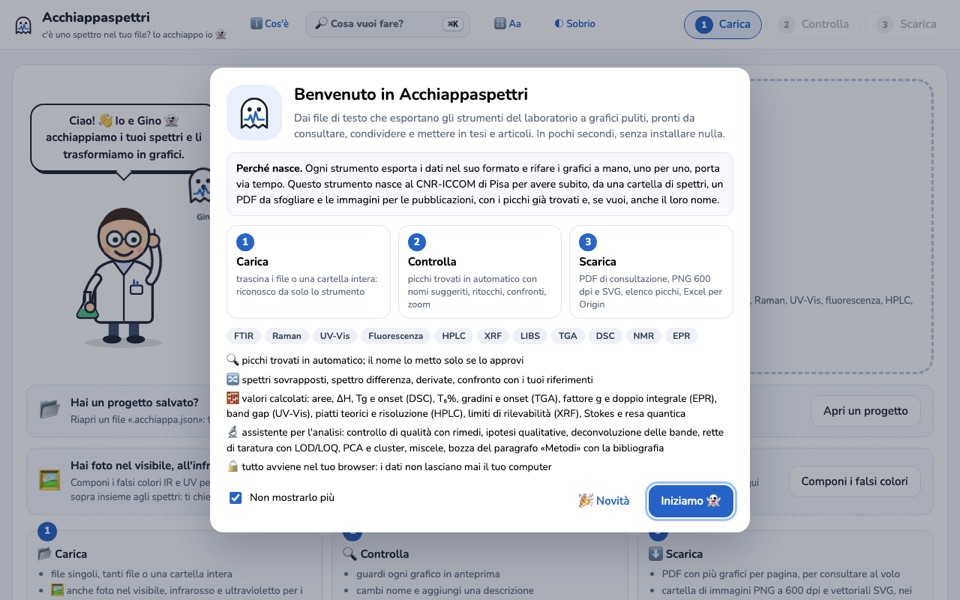
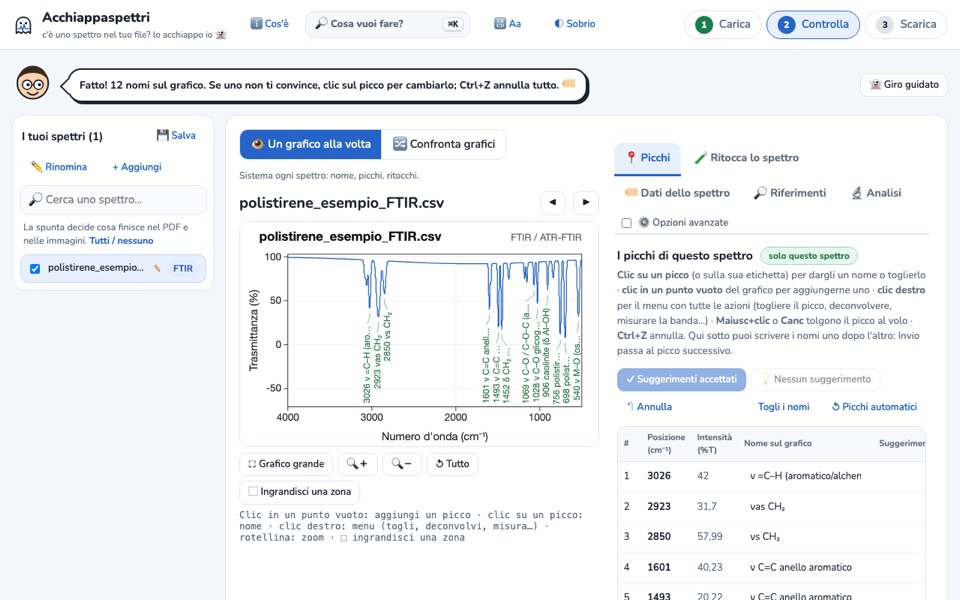
Copertina di Algae, screenshot dei tool in uso, hero mobile più chiaro
- nuovo progetto: copertina di Algae (3ª ed., CRC Press), con crediti dei disegni
- screenshot reali: Acchiappaspettri con spettro FTIR di esempio, ICP Tool con
  tabella standard, Work Time Tracker con giornata in corso
- su mobile il ritratto scende dopo i bottoni: primo schermo = chi sono e cosa faccio

diff --git a/index.html b/index.html
@@ -20,7 +20,7 @@
 <link rel="preconnect" href="https://fonts.googleapis.com">
 <link rel="preconnect" href="https://fonts.gstatic.com" crossorigin>
 <link href="https://fonts.googleapis.com/css2?family=Bricolage+Grotesque:opsz,wght@12..96,400;12..96,600;12..96,700;12..96,800&family=Instrument+Serif:ital@0;1&family=JetBrains+Mono:wght@500;600&display=swap" rel="stylesheet">
-<link rel="stylesheet" href="styles.css?v=6">
+<link rel="stylesheet" href="styles.css?v=7">
 <script type="application/ld+json">
 {"@context":"https://schema.org","@type":"Person","name":"Lorenzo Birindelli","url":"https://lorebiri.github.io/","image":"https://lorebiri.github.io/lorenzo.jpg","jobTitle":"Collaboratore Tecnico Enti di Ricerca (CTER)","description":"CTER at CNR-ICCOM, Pisa: lab and technical support, instrumentation, data, scientific graphics and digital tools.","worksFor":{"@type":"ResearchOrganization","name":"CNR — Istituto di Chimica dei Composti OrganoMetallici (ICCOM)","address":{"@type":"PostalAddress","addressLocality":"Pisa","addressCountry":"IT"},"parentOrganization":{"@type":"GovernmentOrganization","name":"Consiglio Nazionale delle Ricerche (CNR)"}},"alumniOf":{"@type":"EducationalOrganization","name":"ITIS \"Leonardo da Vinci\", Pisa"},"knowsLanguage":["it","en"],"identifier":{"@type":"PropertyValue","propertyID":"ORCID","value":"0009-0000-2529-6256"},"sameAs":["https://orcid.org/0009-0000-2529-6256","https://scholar.google.com/citations?user=1BWAMFEAAAAJ","https://github.com/lorebiri"]}
 </script>
@@ -213,6 +213,7 @@
           <div class="tags">
             <span class="tag" data-it>figure per pubblicazioni</span><span class="tag" data-en>figures for publications</span>
             <span class="tag" data-it>illustrazione scientifica</span><span class="tag" data-en>scientific illustration</span>
+            <span class="tag" data-it>copertine di libri</span><span class="tag" data-en>book covers</span>
             <span class="tag" data-it>locandine &amp; grafica eventi</span><span class="tag" data-en>posters &amp; event graphics</span>
             <span class="tag">videomaking</span>
             <span class="tag">Final Cut Pro</span>
@@ -417,7 +418,7 @@
             <dt><span data-it>problema</span><span data-en>problem</span></dt>
             <dd><span data-it>Con l'orario CNR da 7h 12m e le pause di mezzo, sapere a che ora si esce è sempre un conto a mente.</span><span data-en>With the 7h 12m CNR workday and breaks in between, working out when you can leave is always mental maths.</span></dd>
             <dt><span data-it>cosa fa</span><span data-en>what it does</span></dt>
-            <dd><span data-it>Inserisci l'ingresso e le pause: calcola la fine della giornata e l'ora del buono pasto, con countdown, percentuale completata e cosa succede se esci adesso.</span><span data-en>Enter your start time and breaks: it works out when the day ends and when the meal voucher kicks in, with countdowns, progress and what happens if you leave now.</span></dd>
+            <dd><span data-it>Inserisci l'ingresso e le pause: calcola la fine della giornata e l'ora del buono pasto (aggiungendo da solo la mezz'ora di pausa pranzo se manca), con countdown, percentuale completata e cosa succede se esci adesso.</span><span data-en>Enter your start time and breaks: it works out when the day ends and when the meal voucher kicks in (adding the 30-minute lunch break itself if it's missing), with countdowns, progress and what happens if you leave now.</span></dd>
             <dt><span data-it>risultato</span><span data-en>result</span></dt>
             <dd><span data-it>Zero scienza, massima utilità quotidiana.</span><span data-en>Zero science, maximum everyday usefulness.</span></dd>
             <dt><span data-it>il mio ruolo</span><span data-en>my part</span></dt>
@@ -433,8 +434,39 @@
         </div>
       </article>
 
+      <!-- Copertina Algae -->
+      <article class="work slim rv" data-cat="graphics">
+        <div class="art book">
+          <a href="https://www.routledge.com/Algae-Anatomy-Biochemistry-and-Biotechnology/Barsanti-Gualtieri/p/book/9781032035123" target="_blank" rel="noopener" tabindex="-1" aria-hidden="true">
+            <img src="img/algae-cover.jpg" alt="" width="350" height="500" loading="lazy">
+          </a>
+          <span class="stk"><span data-it>📚 copertina by me</span><span data-en>📚 cover by me</span></span>
+        </div>
+        <div class="wbody">
+          <p class="wcat"><b>Scientific Graphics</b><span>IBF · CRC Press ©2023</span></p>
+          <h3><span data-it>Copertina di <span class="serif">Algae</span></span><span data-en><span class="serif">Algae</span> book cover</span> 📚</h3>
+          <p class="wdesc" data-it>La copertina della terza edizione di <em>Algae: Anatomy, Biochemistry, and Biotechnology</em> (CRC Press), l'ultimo libro di Laura Barsanti e Paolo Gualtieri.</p>
+          <p class="wdesc" data-en>The cover of the third edition of <em>Algae: Anatomy, Biochemistry, and Biotechnology</em> (CRC Press), the latest book by Laura Barsanti and Paolo Gualtieri.</p>
+          <dl class="brief">
+            <dt><span data-it>materiale</span><span data-en>starting point</span></dt>
+            <dd><span data-it>disegni a mano dei microrganismi, realizzati dalla sorella di Laura Barsanti.</span><span data-en>hand drawings of microorganisms, made by Laura Barsanti's sister.</span></dd>
+            <dt><span data-it>cosa ho fatto</span><span data-en>what I did</span></dt>
+            <dd><span data-it>ho scansionato i disegni, li ho scontornati togliendo lo sfondo e ho progettato la copertina in Inkscape. Tutta la parte digitale è mia.</span><span data-en>I scanned the drawings, cut them out from their background and designed the cover in Inkscape. All the digital work is mine.</span></dd>
+            <dt><span data-it>con chi</span><span data-en>with whom</span></dt>
+            <dd><span data-it>progetto seguito insieme ai due autori.</span><span data-en>developed together with the two authors.</span></dd>
+          </dl>
+          <div class="wfoot">
+            <span class="stack">Inkscape · <span data-it>scansione · scontorno</span><span data-en>scanning · cut-outs</span></span>
+            <div class="wlinks">
+              <a class="wl go" href="https://www.routledge.com/Algae-Anatomy-Biochemistry-and-Biotechnology/Barsanti-Gualtieri/p/book/9781032035123" target="_blank" rel="noopener"><span data-it>pagina del libro</span><span data-en>book page</span> ↗</a>
+            </div>
+          </div>
+          <p class="wnote">© CRC Press / Taylor &amp; Francis</p>
+        </div>
+      </article>
+
       <!-- Figure scientifiche -->
-      <article class="work rv" data-cat="graphics">
+      <article class="work wide rv" data-cat="graphics">
         <div class="art figs" aria-hidden="true">
           <div data-p="a"><svg viewBox="0 0 100 60" preserveAspectRatio="none"><line x1="0" y1="60" x2="100" y2="60"/><line x1="0" y1="0" x2="0" y2="60"/><path d="M0 52 C12 50 18 20 26 22 S38 50 48 48 S60 8 66 10 S78 46 100 44"/><path class="hl" d="M0 56 C14 55 22 38 30 40 S42 54 52 53 S64 28 70 30 S84 52 100 50"/></svg></div>
           <div data-p="b"><svg viewBox="0 0 100 60" preserveAspectRatio="none"><line x1="0" y1="60" x2="100" y2="60"/><rect x="8" y="30" width="14" height="30"/><rect x="30" y="14" width="14" height="46"/><rect x="52" y="24" width="14" height="36"/><rect x="74" y="6" width="14" height="54"/></svg></div>
@@ -449,13 +481,13 @@
             <span class="stack">OriginLab · ImageJ · Excel · Inkscape · Photoshop</span>
             <div class="wlinks"><a class="wl go" href="#pubs"><span data-it>vai ai paper</span><span data-en>go to papers</span> ↓</a></div>
           </div>
-          <p class="wnote" data-it>* anteprima illustrativa, non dati reali.</p>
-          <p class="wnote" data-en>* illustrative preview, not real data.</p>
+          <p class="wnote" data-it>* anteprima illustrativa, non dati reali. Un esempio vero? La copertina di <em>Algae</em>, qui accanto.</p>
+          <p class="wnote" data-en>* illustrative preview, not real data. A real example? The <em>Algae</em> cover, right next to it.</p>
         </div>
       </article>
 
       <!-- Video -->
-      <article class="work rv" data-cat="media">
+      <article class="work wide rv" data-cat="media">
         <div class="art reel" aria-hidden="true">
           <span class="tc">00:01:12:08</span><span class="rec">REC</span>
           <span class="head"></span>
@@ -474,8 +506,8 @@
         </div>
       </article>
 
-      <p class="addme rv" data-it>// prossima idea in fase di compilazione… ⚙</p>
-      <p class="addme rv" data-en>// next idea compiling… ⚙</p>
+      <p class="addme half rv" data-it>// prossima idea in fase di compilazione… ⚙</p>
+      <p class="addme half rv" data-en>// next idea compiling… ⚙</p>
     </div>
   </div>
 </section>
@@ -559,6 +591,7 @@
             <li>Gestione e manutenzione della strumentazione (centrifughe, autoclave, spettrofotometro)</li>
             <li>Supporto agli esperimenti, raccolta ed elaborazione dati</li>
             <li>Realizzazione di figure scientifiche per gli articoli del gruppo</li>
+            <li>Progettazione della copertina di <em>Algae</em> (3ª ed., CRC Press)</li>
             <li>Supporto alla stesura di relazioni e pubblicazioni, video e materiale multimediale</li>
             <li>Gestione del laboratorio e rispetto delle norme di sicurezza</li>
           </ul>
@@ -567,6 +600,7 @@
             <li>Running and maintaining lab instruments (centrifuges, autoclave, spectrophotometer)</li>
             <li>Experimental support, data collection and analysis</li>
             <li>Creating scientific figures for the group's papers</li>
+            <li>Designing the cover of <em>Algae</em> (3rd ed., CRC Press)</li>
             <li>Helping write reports and papers, videos and multimedia content</li>
             <li>Lab management and safety compliance</li>
           </ul>

diff --git a/styles.css b/styles.css
@@ -429,3 +429,17 @@ html:not(.js) .rv{opacity:1;transform:none}
 .brief dt{font:600 11px/1.9 var(--mono);text-transform:uppercase;letter-spacing:.08em;color:var(--eye)}
 .brief dd{color:var(--mute)}
 @media (max-width:520px){.brief{grid-template-columns:1fr;gap:2px}.brief dd{margin-bottom:8px}}
+
+/* copertina libro */
+.art.book{height:auto;min-height:260px;padding:30px 20px;background:var(--chl);display:grid;place-items:center}
+.art.book a{display:block;width:min(200px,62%);transform:rotate(-3deg);transition:transform .3s}
+.work:hover .art.book a{transform:rotate(0) scale(1.03)}
+.art.book img{border:1.5px solid var(--line);box-shadow:8px 8px 0 var(--line)}
+.art.book .stk{position:absolute;bottom:14px;right:14px;font:600 12px/1 var(--mono);background:var(--paper);color:var(--ink);border:1.5px solid var(--line);padding:7px 10px;transform:rotate(4deg)}
+.addme.half{grid-column:span 5;display:flex;align-items:center;justify-content:center}
+
+/* mobile: prima il "chi sono e cosa faccio", poi il ritratto */
+@media (max-width:860px){
+  .scope{order:2;margin:34px auto 12px}
+  .addme.half{grid-column:auto}
+}
